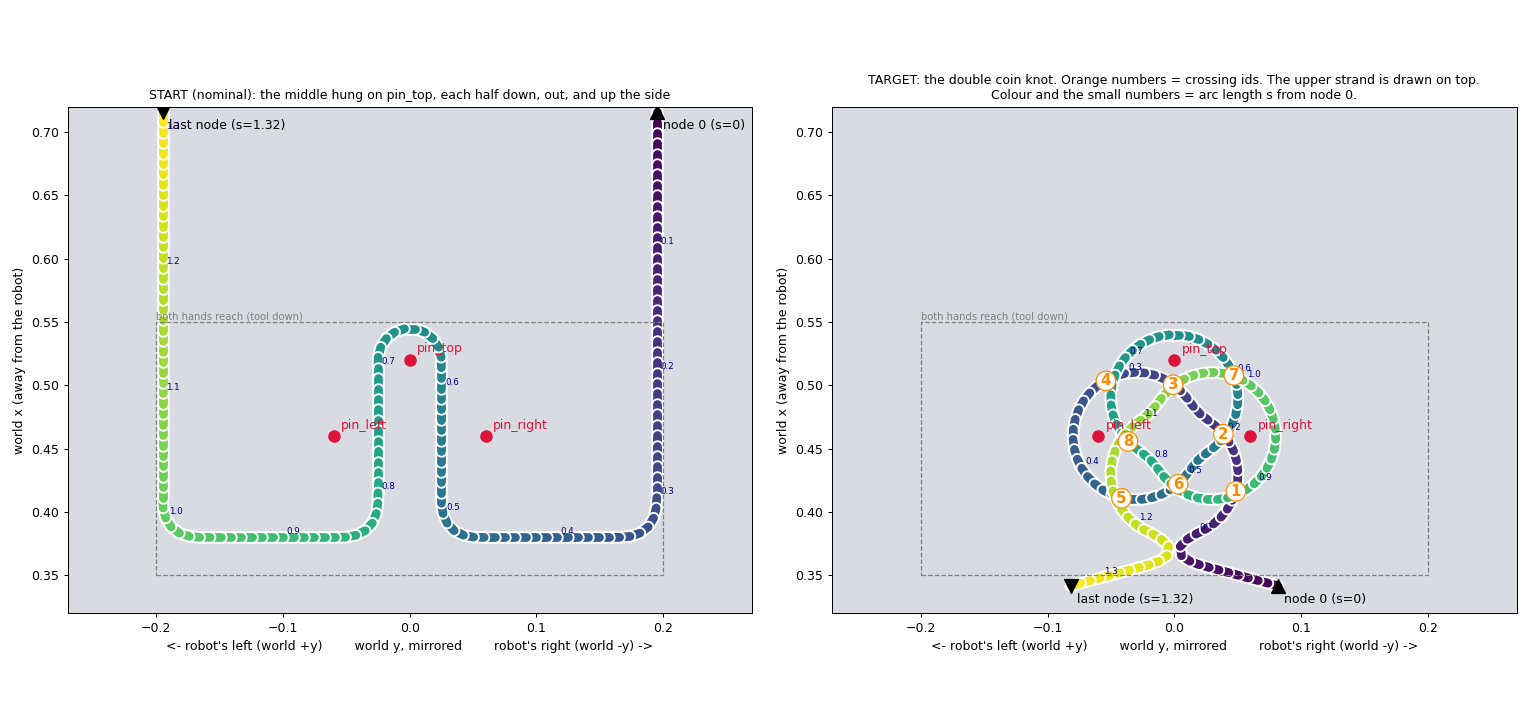
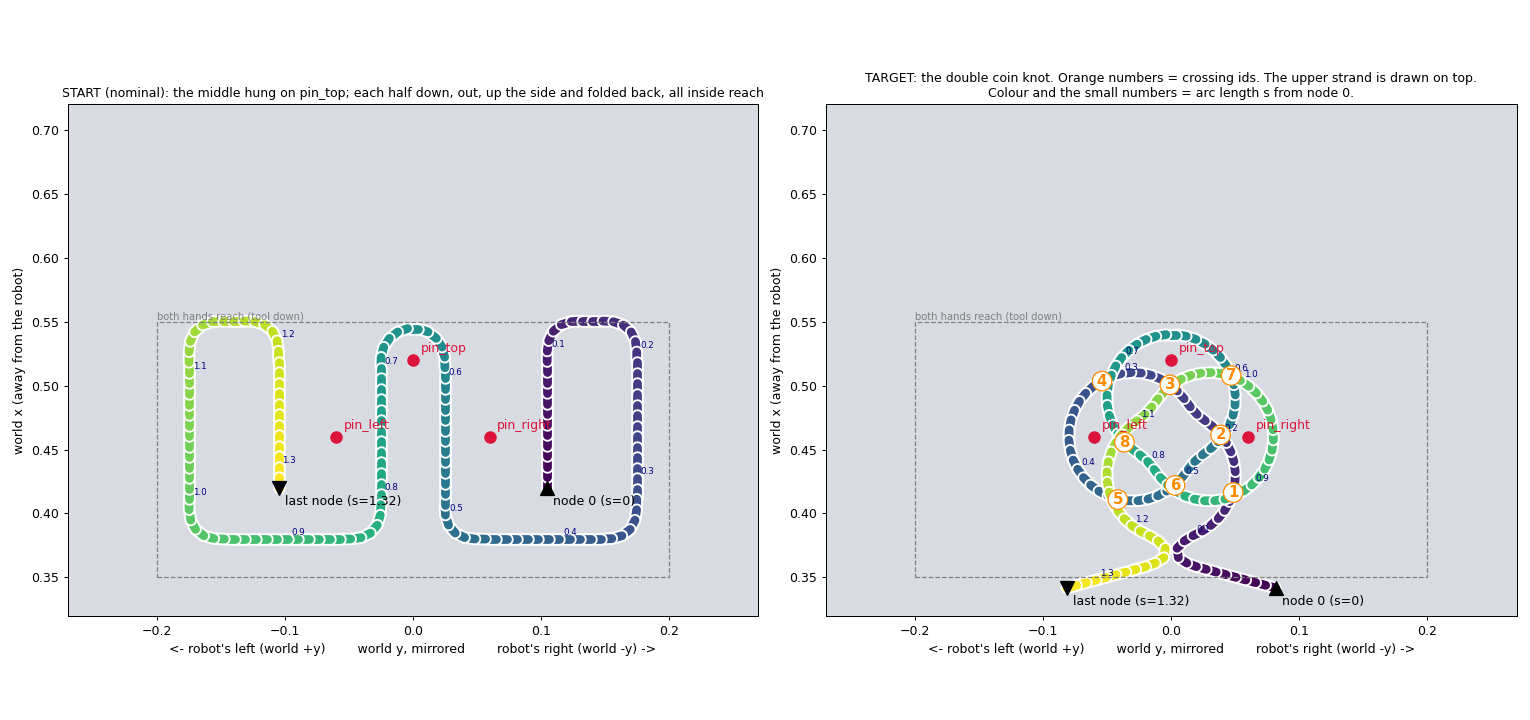
knotlab: the cord starts folded flat inside reach, clear of the knot, instead of trailing out of reach up the board's sides
The first loop's graphs spent every episode trying to retrieve out-of-reach
tails, which is an artifact of fitting the video's board to the YAM's reach,
not part of tying the knot.

Changed region(s): [[0.0307, 0.1222, 0.983, 0.9167], [0.5529, 0.0917, 0.983, 0.1528], [0.6144, 0.4278, 0.7065, 0.4583]]

diff --git a/knotlab/geometry.py b/knotlab/geometry.py
@@ -131,15 +131,20 @@ def start(
     *,
     splay: float = 0.05,
     drop: float = 0.14,
-    side: float = 0.17,
-    turn: float = 0.03,
+    side: float = 0.15,
+    up: float = 0.16,
+    fold: float = 0.07,
+    turn: float = 0.025,
 ) -> np.ndarray:
     """The rope as the video starts it: its middle hung round the top pin, both halves down the board.
 
     The video's halves run straight down off the board; the YAM pair reaches a
-    band only ~20 cm deep and 40 cm wide, so after ``drop`` each half turns out
-    sideways for ``side`` and then hooks back up the side of the board, the rest
-    of its length lying there, corners rounded on ``turn``.
+    band only ~20 cm deep and 40 cm wide, so the whole cord is laid inside it,
+    clear of where the knot goes: after ``drop`` each half turns out sideways for
+    ``side``, runs back up the side of the board, folds in by ``fold`` and comes
+    back down that corridor, stopping 4 cm above where it started out; the run up
+    is solved so the half's length comes out exact (``up`` is the first guess).
+    Corners are rounded on ``turn``.
 
     Same length and element count as :func:`target`, so node k is the same point of
     rope in both.
@@ -148,22 +153,43 @@ def start(
     length = float(arc_length(goal)[-1])
     top = pins(spec)["top"]
     r = 0.5 * splay
-    halves = []
-    for sign in (+1.0, -1.0):
-        # From the bight's apex over the pin, round to the side, down, out, and up the side far enough.
-        apex = top + np.array([0.0, r])
+    gap = 0.04  # the folded-back run stops this far above the bottom run
+
+    def half(sign: float, up_: float) -> np.ndarray:
         phi = np.linspace(0.5 * math.pi, 0.5 * math.pi - sign * 0.5 * math.pi, 12)
         arc = top + np.stack([r * np.cos(phi), r * np.sin(phi)], axis=1)
+        apex = top + np.array([0.0, r])
         corner1 = top + np.array([sign * r, -drop])
         corner2 = corner1 + np.array([sign * side, 0.0])
-        far = corner2 + np.array([0.0, 1.0])  # long enough; trimmed to the half-length below
-        path = _fillet(np.vstack([arc[:-1], arc[-1], corner1, corner2, far]), turn)
-        path = np.vstack([apex[None], path[1:]])
-        s = arc_length(np.hstack([path, np.zeros((len(path), 1))]))
-        keep = s <= 0.5 * length
+        corner3 = corner2 + np.array([0.0, up_])
+        corner4 = corner3 + np.array([-sign * fold, 0.0])
+        end = np.array([corner4[0], corner1[1] + gap])
+        path = _fillet(np.vstack([arc[:-1], arc[-1], corner1, corner2, corner3, corner4, end]), turn)
+        return np.vstack([apex[None], path[1:]])
+
+    def plen(p: np.ndarray) -> float:
+        return float(arc_length(np.hstack([p, np.zeros((len(p), 1))]))[-1])
+
+    halves = []
+    for sign in (+1.0, -1.0):
+        # The run up the side is what is free: choose it so the half's length is exactly half the rope's
+        # (its path length grows two for one with it, up and back down).
+        u0, u1 = up, up + 0.05
+        l0, l1 = plen(half(sign, u0)), plen(half(sign, u1))
+        u = u0 + (0.5 * length - l0) * (u1 - u0) / (l1 - l0)
+        for _ in range(2):
+            lu = plen(half(sign, u))
+            u += (0.5 * length - lu) / 2.0
+        path = half(sign, u)
+        s_ = arc_length(np.hstack([path, np.zeros((len(path), 1))]))
+        keep = s_ <= 0.5 * length
         cut = int(np.argmax(~keep)) if (~keep).any() else len(path)
-        end = path[cut - 1] + (0.5 * length - s[cut - 1]) * (path[cut] - path[cut - 1]) / max(s[cut] - s[cut - 1], 1e-9)
-        halves.append(np.vstack([path[:cut], end[None]]))
+        if cut < len(path):
+            end = path[cut - 1] + (0.5 * length - s_[cut - 1]) * (path[cut] - path[cut - 1]) / max(s_[cut] - s_[cut - 1], 1e-9)
+            path = np.vstack([path[:cut], end[None]])
+        halves.append(path)
+    plus, minus = halves
+    path = np.vstack([plus[::-1], minus[1:]])
     # Node 0 is the target's first tail; the target's first tail is at +X, so the +X half runs first, end to apex.
     plus, minus = halves
     path = np.vstack([plus[::-1], minus[1:]])

diff --git a/knotlab/task.py b/knotlab/task.py
@@ -45,7 +45,9 @@ class Variant:
     # How the rope starts.
     splay: float = 0.05  # the bight's width round the top pin [m]
     drop: float = 0.14  # how far each half runs down before turning out [m]
-    side: float = 0.17  # how far it then runs out sideways before hooking back up the board [m]
+    side: float = 0.15  # how far it then runs out sideways [m]
+    up: float = 0.16  # then back up the side of the board [m]
+    fold: float = 0.07  # then in, and back down that corridor with the rest [m]
     lay_noise: float = 0.0  # lateral wiggle laid onto the start [m]
     start_shape: str = "omega"  # "omega": the video's start; "tied": the loose knot itself (to rehearse dressing)
 
@@ -80,7 +82,7 @@ def layout(v: Variant) -> dict:
     """Everything this variant places, in the bench frame: rope start nodes, target, pins."""
     rng = np.random.default_rng(v.seed)
     spec = knot_spec(v)
-    start = geometry.start(spec, splay=v.splay, drop=v.drop, side=v.side)
+    start = geometry.start(spec, splay=v.splay, drop=v.drop, side=v.side, up=v.up, fold=v.fold)
     if v.start_shape == "tied":
         start = geometry.target(spec)
     if v.lay_noise > 0:
@@ -93,6 +95,10 @@ def layout(v: Variant) -> dict:
         mid = np.abs(s - s[-1] / 2) > 0.12  # leave the bight on its pin
         start = start.copy()
         start[:, :2] += (wiggle * far * mid)[:, None] * normal
+        # Even spacing again (the wiggle stretched some elements and squeezed others), same node count.
+        s2 = diagram.arc_length(start)
+        s_new = np.linspace(0.0, s2[-1], len(start))
+        start = np.stack([np.interp(s_new, s2, start[:, k]) for k in range(3)], axis=1)
     pins = geometry.pins(spec)
     pins = {k: p + (rng.uniform(-1, 1, 2) * v.pin_jitter if v.pin_jitter else 0.0) for k, p in pins.items()}
     pin_bench = {k: _place(v, np.array([[*p, 0.0]]))[0] for k, p in pins.items()}

diff --git a/tools/render_layout.py b/tools/render_layout.py
@@ -45,7 +45,7 @@ if __name__ == "__main__":
     out = sys.argv[1] if len(sys.argv) > 1 else "harness/docs/img/start_and_target.png"
     lay = task.layout(task.NOMINAL)
     fig, axes = plt.subplots(1, 2, figsize=(17, 8))
-    draw(axes[0], lay["start"], lay, "START (nominal): the middle hung on pin_top, each half down, out, and up the side")
+    draw(axes[0], lay["start"], lay, "START (nominal): the middle hung on pin_top; each half down, out, up the side and folded back, all inside reach")
     draw(axes[1], lay["target"], lay, "TARGET: the double coin knot. Orange numbers = crossing ids. The upper strand is drawn on top.\nColour and the small numbers = arc length s from node 0.", label_cross=True)
     for ax in axes:
         ax.set_xlim(-0.27, 0.27); ax.set_ylim(0.32, 0.72)

diff --git a/harness/variants.py b/harness/variants.py
@@ -19,7 +19,9 @@ RANGES = {
     "pin_jitter": ("lin", 0.0, 0.003),
     "splay": ("lin", 0.04, 0.06),
     "drop": ("lin", 0.12, 0.155),
-    "side": ("lin", 0.14, 0.19),
+    "side": ("lin", 0.135, 0.16),
+    "up": ("lin", 0.13, 0.165),
+    "fold": ("lin", 0.055, 0.08),
     "lay_noise": ("lin", 0.0, 0.006),
 }
 

diff --git a/harness/docs/TASK.md b/harness/docs/TASK.md
@@ -22,7 +22,7 @@ The double coin knot is the 3-lead 4-bight Turk's head (the Carrick mat) cut ope
   - Do not refuse them up front. A self-imposed margin that makes the graph abort before trying is a failure.
 - **Rope**: a 10 mm cord, 1.32 m long, 162 nodes about 8 mm apart, with self-contact (strands cannot pass through each other). It is soft (Young's modulus ~1e5 Pa). Its friction coefficient (~1.0 nominal, one value for strands, pads and the bench) was raised from the engine default because a cord laid on the video's foam board stays put. It rests on the bench (axis at z ≈ 0.755). Arc length s runs from node 0 (s = 0) to the last node (s ≈ 1.32).
 - **Board and pins**: a foam board (drawn only). There are three pins (posts 2.5 mm in radius, 50 mm tall, about 5 cord diameters as in the video): `pin_top`, `pin_left`, `pin_right`, each in the eye of one lobe of the finished knot. Fingers that land on a pin collide with it. A pin holds a loop laid round it, and cord carried below 50 mm cannot pass over a pin, so route carries round the pins.
-- **Start** (`img/start_and_target.png`, left): the cord's middle (s ≈ 0.66) is hung round `pin_top`. Each half runs down toward the robot ~14 cm, then out sideways ~17 cm, then hooks back up the side of the board. The ends lie beyond reach. Node 0 is the end of the robot's RIGHT half (world -y); the last node is the end of the LEFT half.
+- **Start** (`img/start_and_target.png`, left): the cord's middle (s ≈ 0.66) is hung round `pin_top`. Each half runs down toward the robot ~14 cm, out sideways ~15 cm, back up the side of the board, folds in ~7 cm and comes back down that side corridor, stopping 4 cm above where it started out. The whole cord lies flat inside reach and clear of the knot's area. Both ends lie near world (0.42, ±0.105). Node 0 is the end of the robot's RIGHT half (world -y); the last node is the end of the LEFT half.
 - **Target** (`img/start_and_target.png`, right): `rope.layout()` gives `target_nodes`, where every node of the rope lies in the tied knot for this episode (world frame, already shifted with the jig), and `target_arc`. The 8 crossings, numbered by where strand A (the earlier along the rope) meets them:
 
 | crossing | strand A at s | strand B at s | strand A is |
